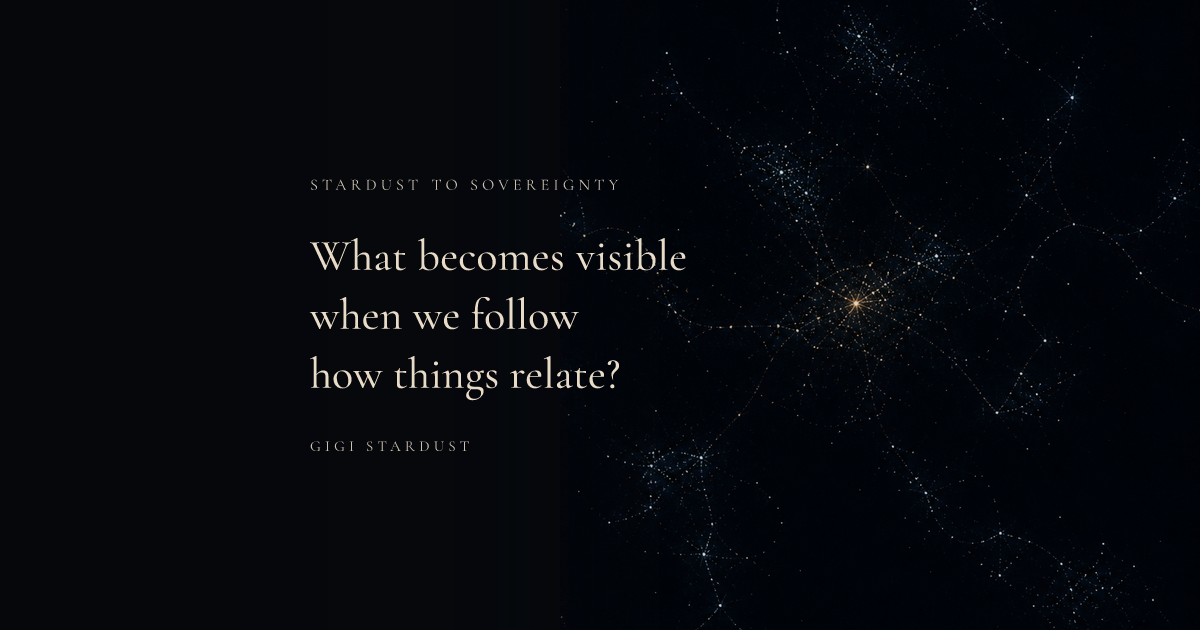
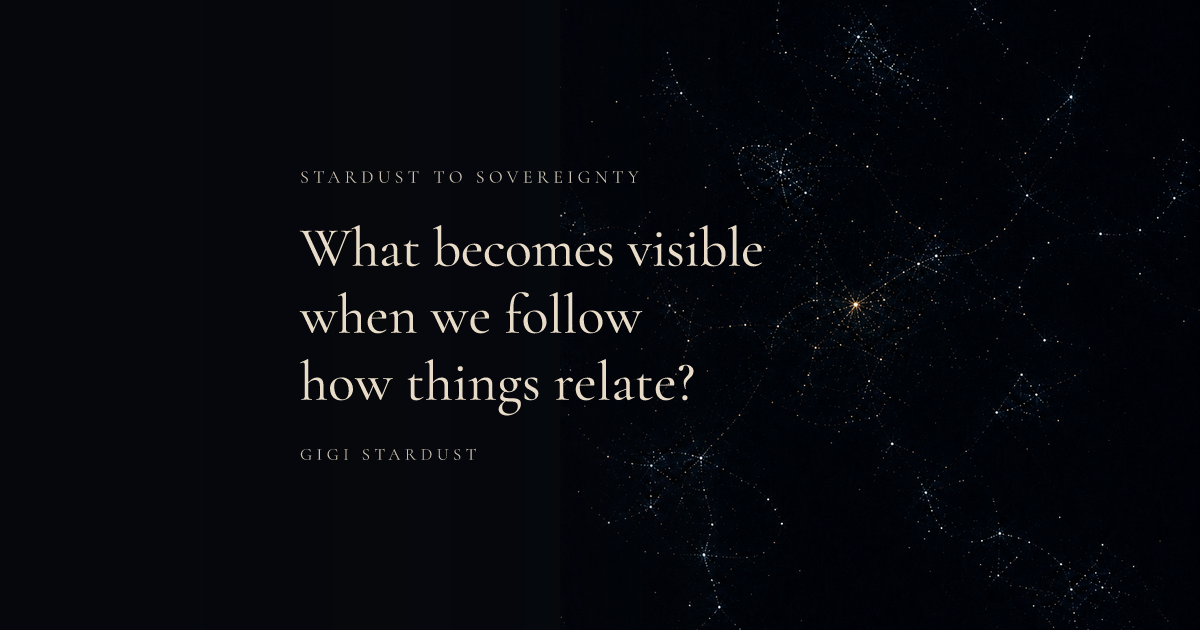
Ship approved atmospheric field family and enlarge OG type.
Add the coherent 01–05 atmosphere sources plus preserved masters, and raise og-v7 question size toward the previous card’s scale.

diff --git a/public/assets/atmosphere/README.md b/public/assets/atmosphere/README.md
@@ -1,0 +1,21 @@
+# Atmosphere field assets
+
+## Master / preserved
+- `master-og-threshold.png` — original OG artwork, unchanged. Source/reference only (not a production page background with type).
+- `master-field-plate-clean.png` — text-free graphic plate derived from master.
+- `preserved-architectural-threshold.png` — intact architectural luminous composition kept for the library (not for ambient page texture use).
+
+## Production family (3:2, 2400×1600)
+Same underlying field at different degrees of perceptibility. Sources are kept slightly richer than typical on-page appearance; attenuate in CSS (opacity, masks, gradients, blend).
+
+| File | Degree |
+|------|--------|
+| `01-particulate-field.png` | Mostly diffuse; faint latent relation on second look |
+| `02-emerging-relation.png` | Relation discovered gradually inside the field |
+| `03-resolved-geometry.png` | Greater local legibility across regions; still incomplete |
+| `04-luminous-event.png` | Local heightened coherence (no doorway/portal object) |
+| `05-full-atmospheric-field.png` | Quietest versatile background; recoverable detail |
+
+`family-contact-sheet.png` — side-by-side review with master.
+
+Archives: `_archive-pre-refine/`, `_archive-pre-family-cohere/`.
